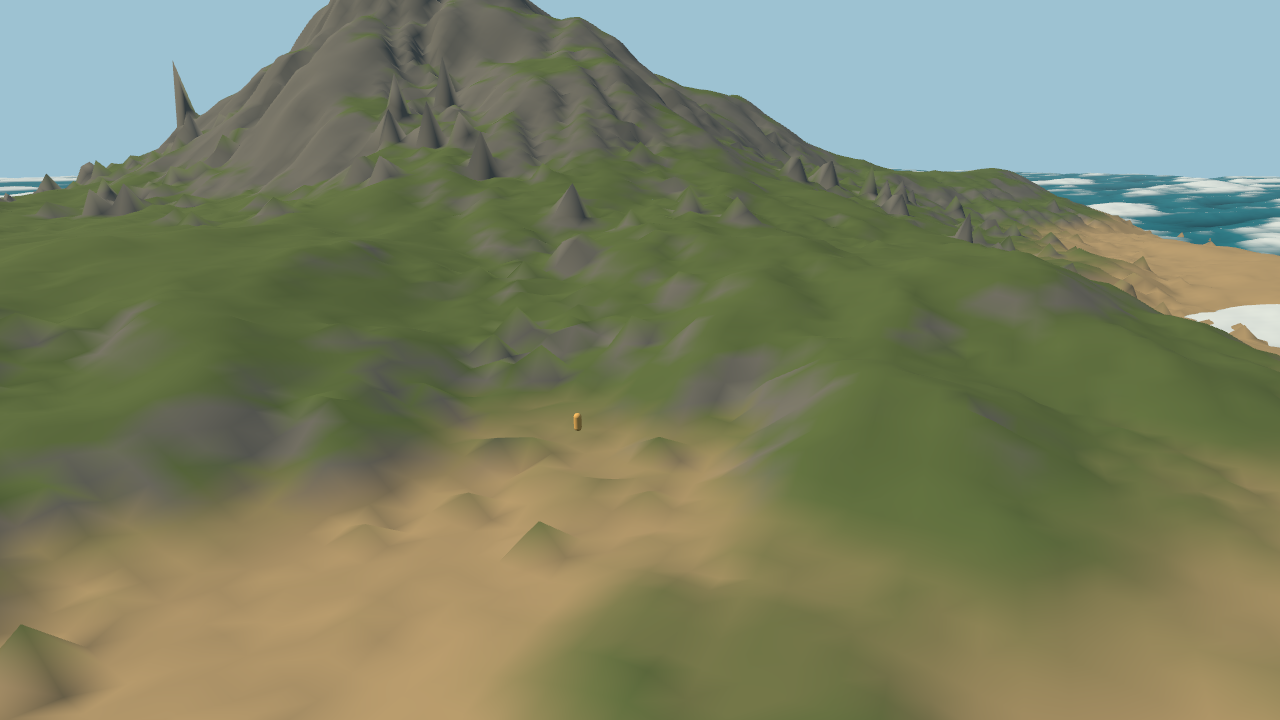
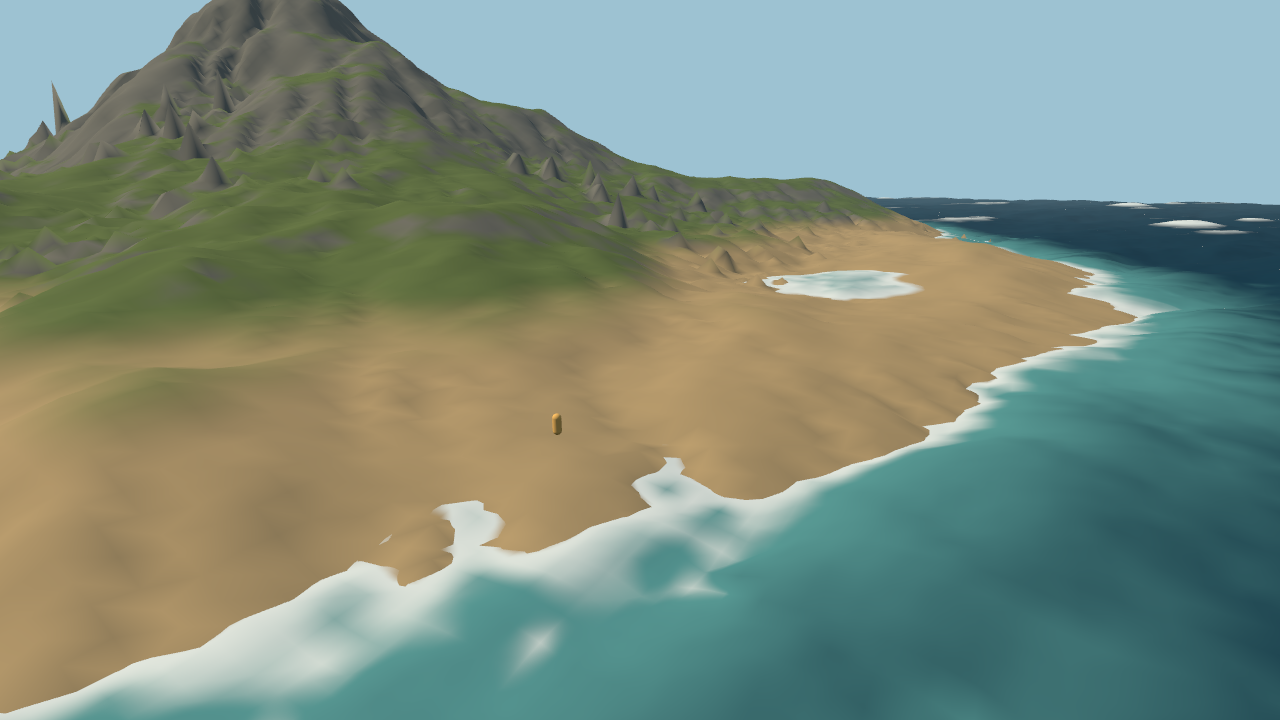
feat(terrain): qualify coastal waves and shoreline with PR screenshots

diff --git a/examples/strata-terrain-preview/src/render/ocean.ts b/examples/strata-terrain-preview/src/render/ocean.ts
@@ -13,7 +13,15 @@
 // A spectral ocean is cascaded wave spectra inverse-transformed on the GPU every frame, which is
 // what real water is, and a standard node material puts it back under the scene's own lights.
 import { type ISpectralOceanOptions, SpectralOcean } from "@threenative/core";
-import { Mesh, PlaneGeometry } from "three";
+import {
+  DataTexture,
+  DataUtils,
+  HalfFloatType,
+  LinearFilter,
+  Mesh,
+  PlaneGeometry,
+  RedFormat,
+} from "three";
 import {
   color,
   float,
@@ -21,12 +29,14 @@ import {
   positionLocal,
   positionWorld,
   smoothstep,
+  texture,
   transformNormalToView,
+  vec2,
   vec3,
 } from "three/tsl";
 import type { Node } from "three/webgpu";
 import { MeshStandardNodeMaterial } from "three/webgpu";
-import { palette } from "./palette.js";
+import type { IBakedWorld } from "./terrain.js";
 
 /**
  * The sea state. Every number is this game's.
@@ -119,7 +129,20 @@ function displacementAt(ocean: SpectralOcean, x: Node<"float">, z: Node<"float">
  * height query is copied from. If the two disagreed the ship would ride water nothing renders and
  * every assertion in this template would still be green.
  */
-export function createWaterMesh(ocean: SpectralOcean): Mesh {
+export function createWaterMesh(ocean: SpectralOcean, data: IBakedWorld): Mesh {
+  const level = data.waterLevel;
+  if (level === null || !Number.isFinite(level))
+    throw new Error("Coastal bake has no finite sea level");
+  const heightTexture = new DataTexture(
+    Uint16Array.from(data.heights, DataUtils.toHalfFloat),
+    data.resolution,
+    data.resolution,
+    RedFormat,
+    HalfFloatType,
+  );
+  heightTexture.minFilter = LinearFilter;
+  heightTexture.magFilter = LinearFilter;
+  heightTexture.needsUpdate = true;
   const geometry = new PlaneGeometry(
     SURFACE.size,
     SURFACE.size,
@@ -133,6 +156,8 @@ export function createWaterMesh(ocean: SpectralOcean): Mesh {
   // its specular response for free, and gets them consistent with the hull floating on it.
   const material = new MeshStandardNodeMaterial({
     metalness: 0.02,
+    transparent: true,
+    depthWrite: false,
     // Not glass. At 0.08 the key light landed as one blown white disc on the swell in front of the
     // camera; water this side of a dead calm scatters enough to spread that into a glitter path.
     roughness: 0.29,
@@ -161,17 +186,27 @@ export function createWaterMesh(ocean: SpectralOcean): Mesh {
     vec3(west.y.sub(east.y).div(twice), float(1), south.y.sub(north.y).div(twice)).normalize(),
   );
 
-  // Colour by height: deep in the troughs, lit water on the shoulders, foam on the crests. The
-  // band is narrower than the wave amplitude on purpose, so the tops read as foam-lit rather than
-  // as a gentle gradient.
-  const shade = smoothstep(float(-2.4), float(1.8), positionWorld.y);
-  const water = mix(color(palette.floor), color(palette.accent), shade);
-  const crest = smoothstep(float(1.6), float(3), positionWorld.y);
-  material.colorNode = mix(water, color(FOAM), crest);
-  // Foam is not a mirror. Roughening the crests is what stops them reading as chrome.
-  material.roughnessNode = mix(float(0.29), float(0.82), crest);
+  // Both coast masking and shallow foam use the same authored heightfield as the land.
+  // Half-float is sufficient for a metre-wide visual foam band and is filterable on WebGPU.
+  const shoreUV = vec2(
+    positionWorld.x.div(float(data.size)).add(0.5),
+    positionWorld.z.div(float(data.size)).add(0.5),
+  );
+  const landHeight = texture(heightTexture, shoreUV).r;
+  const depth = positionWorld.y.sub(landHeight);
+  const relativeHeight = positionWorld.y.sub(float(level));
+  const shallow = smoothstep(float(0.5), float(12), depth);
+  const water = mix(color(0x5ea7a9), color(0x153e54), shallow);
+  const crest = smoothstep(float(1.6), float(3), relativeHeight);
+  const shoreFoam = float(1).sub(smoothstep(float(0.3), float(2.4), depth));
+  const foam = crest.max(shoreFoam);
+  material.colorNode = mix(water, color(FOAM), foam);
+  material.opacityNode = smoothstep(float(-0.15), float(0.35), depth);
+  material.roughnessNode = mix(float(0.29), float(0.82), foam);
+  material.addEventListener("dispose", () => heightTexture.dispose());
 
   const mesh = new Mesh(geometry, material);
+  mesh.position.y = level;
   mesh.receiveShadow = true;
   mesh.frustumCulled = false;
   mesh.name = "sea-surface";

diff --git a/examples/strata-terrain-preview/src/game.ts b/examples/strata-terrain-preview/src/game.ts
@@ -34,6 +34,7 @@ const initialState = {
   waveSamples: 0,
   waveRange: 0,
   sampleSlopeRange: 0,
+  sunX: -180,
 };
 type TerrainState = typeof initialState;
 type TerrainCtx = ICtx<TerrainState, IPhysicsContext>;
@@ -43,6 +44,7 @@ function terrainScene(world: "forest" | "coastal"): new () => Scene<TerrainState
     static override readonly initialState = initialState;
     #player: CharacterBody3D | undefined;
     #elapsed = 0;
+    #sun: DirectionalLight | undefined;
     #ocean: ReturnType<typeof createOcean> | undefined;
 
     override enter(ctx: TerrainCtx): void {
@@ -75,13 +77,15 @@ function terrainScene(world: "forest" | "coastal"): new () => Scene<TerrainState
       const sun = new DirectionalLight(0xffeed0, 2.8);
       sun.position.set(-180, 240, 120);
       ctx.add(sun);
+      this.#sun = sun;
+      ctx.entities.add("sun", { object: sun, debug: () => ({ x: sun.position.x }) });
       ctx.add(new HemisphereLight(0xbcd4ed, 0x5e6548, 1.2));
 
       const actor = new Mesh(
         new CapsuleGeometry(0.35, 1.0, 6, 12),
         new MeshStandardMaterial({ color: 0xffc76d }),
       );
-      const start = world === "forest" ? [-190, 160] : [100, 110];
+      const start = world === "forest" ? [-190, 160] : [180, 100];
       actor.position.set(
         start[0] as number,
         field.heightAt(start[0] as number, start[1] as number) + 2,
@@ -150,8 +154,7 @@ function terrainScene(world: "forest" | "coastal"): new () => Scene<TerrainState
       const ocean = world === "coastal" ? ctx.add(createOcean()) : undefined;
       this.#ocean = ocean;
       if (ocean) {
-        const water = createWaterMesh(ocean);
-        water.position.y = 1.5;
+        const water = createWaterMesh(ocean, data);
         ctx.add(water);
         ctx.entities.add("sea", {
           object: ocean,
@@ -245,6 +248,7 @@ function terrainScene(world: "forest" | "coastal"): new () => Scene<TerrainState
         frames++;
         ctx.state.set({
           world,
+          sunX: sun.position.x,
           frames,
           travel,
           grounded: player.grounded,
@@ -257,8 +261,9 @@ function terrainScene(world: "forest" | "coastal"): new () => Scene<TerrainState
           sampleSlopeRange: waveSamples ? maxSlope - minSlope : 0,
         });
       });
+      const cameraOffset = world === "coastal" ? new Vector3(28, 18, 34) : new Vector3(28, 24, 42);
       ctx.beforeRender(() => {
-        ctx.camera.position.copy(actor.position).add(new Vector3(28, 24, 42));
+        ctx.camera.position.copy(actor.position).add(cameraOffset);
         ctx.camera.lookAt(actor.position.x, actor.position.y + 2, actor.position.z - 12);
       });
     }
@@ -266,6 +271,10 @@ function terrainScene(world: "forest" | "coastal"): new () => Scene<TerrainState
     override update(ctx: TerrainCtx, dt: number): void {
       this.#elapsed += dt;
       this.#ocean?.advance(this.#elapsed);
+      if (ctx.input.justPressed("light") && this.#sun) {
+        const sun = this.#sun;
+        sun.position.set(sun.position.x < 0 ? 180 : -180, 240, 120);
+      }
       const player = this.#player;
       if (!player) return;
       const move = ctx.input.vector("move");
@@ -290,6 +299,7 @@ const game = defineGame<TerrainState, IPhysicsContext>({
     },
     jump: { keys: ["Space"] },
     coast: { keys: ["KeyC"] },
+    light: { keys: ["KeyL"] },
   },
   plugins: [rapier({ deterministicRestart: true }), playtest()],
   render: { preferWebGPU: true },

diff --git a/examples/strata-terrain-preview/src/render/palette.js b/examples/strata-terrain-preview/src/render/palette.js
@@ -1,0 +1,11 @@
+// Explicit sRGB surface colours owned by this game, in Strata material-ID order.
+export const terrainPalette = [
+  [0.38, 0.46, 0.26],
+  [0.46, 0.36, 0.25],
+  [0.47, 0.47, 0.44],
+  [0.91, 0.94, 0.95],
+  [0.73, 0.63, 0.46],
+  [0.37, 0.32, 0.24],
+  [0.48, 0.44, 0.36],
+  [0.32, 0.4, 0.28],
+];

diff --git a/examples/strata-terrain-preview/src/render/terrain.ts b/examples/strata-terrain-preview/src/render/terrain.ts
@@ -6,6 +6,7 @@ export interface IBakedWorld {
   resolution: number;
   heights: number[];
   colors: number[];
+  waterLevel: number | null;
 }
 
 export function createTerrain(data: IBakedWorld): { field: Heightfield; mesh: Mesh } {

diff --git a/docs/PRDs/PRD-466-strata-terrain-threejs-integration.md b/docs/PRDs/PRD-466-strata-terrain-threejs-integration.md
@@ -4,7 +4,7 @@
 **Complexity:** 7 (HIGH); risk override: none
 **Owner:** ThreeNative maintainers
 **Depends on:** None
-**Progress:** 4/9 required boxes verified
+**Progress:** 5/9 required boxes verified
 **Required companion:** [PRD-467 — live terrain editor](PRD-467-strata-live-terrain-editor.md)
 **Required companion:** [PRD-468 — atmosphere, cameras, and asset imports](PRD-468-strata-world-controls-and-asset-imports.md)
 
@@ -469,7 +469,7 @@ the supplied HTML alone is not proof of a third-party code license.
 
 ### Phase 2: ThreeNative rendering and matching collision
 
-**Status:** PARTIAL
+**Status:** VERIFIED
 
 **Files:** `examples/strata-terrain-preview/package.json`, existing-template-derived
 build config, `src/game.ts`, `src/world/terrain.ts`, `src/render/terrain.ts`,
@@ -487,25 +487,21 @@ Adapt the existing sailing ocean source; use game-owned atmosphere/lighting and
 material source. Ocean compute advances every frame without reevaluating terrain.
 
 - [x] AC-3 [local, actor: implementing agent]: Browser WebGPU play exercises the generated hill/road with matching rendered and physical ground. proof: `pnpm --filter strata-terrain-preview test:terrain:web` — Evidence: PASS 2026-09-30 — existing runner with `--browser-recipe webgpu --headed`, NVIDIA/turing RTX 2080, 903 scenario ticks; the resource wait observes at least 50 m of walking (62.94 m in the isolated walk), grounded character, 371 coastal contact samples and maximum error 0.000043 m (isolated walk 609 samples, 0.000057 m). The 17×17 asymmetric fixture includes both cell interiors/diagonal sides and exact edge/corner probes, with measured bilinear-vs-triangle difference 1.5 m. No console, runtime or asset errors; inspected nonblank screenshots are attached on the PR. Walking probes compare identical oblique rays through the rendered and physical surfaces; this is not a claim that Rapier’s near-boundary vertical ray miss is fixed.
-- [x] AC-4 [local, actor: implementing agent]: The same baked terrain scenario runs in the Linux native desktop host. proof: `pnpm --filter strata-terrain-preview test:terrain:desktop` — Evidence: PASS 2026-09-30 — existing native bundler plus `--target desktop --executable ../../packages/runtime-native/build/tn-linux/mystral` and `run dist/strata-terrain-native.js`; 903 scenario ticks, observed 50 m travel wait, grounded character, 371 final ground samples and maximum mesh/physics error 0.000043 m. NVIDIA RTX 2080 host, inspected nonblank terrain/coastal captures, no runtime/console errors. Ocean compute/readback observes changing values after moving its clock update into Scene.update; this does not claim rendered-normal/coast qualification, FPS or mobile results.
-- [ ] AC-9 [local, actor: implementing agent]: The coastal ocean mesh visibly consumes the installed spectral simulation in the game scene. proof: AC-3 and AC-4 scenario runs — Evidence: pending; observe changing wave displacement and normals across recorded times, lit material response, and coast masking on browser and desktop, with no silent substitute or missing compute observations.
+- [x] AC-4 [local, actor: implementing agent]: The same baked terrain scenario runs in the Linux native desktop host. proof: `pnpm --filter strata-terrain-preview test:terrain:desktop` — Evidence: PASS 2026-09-30 — existing native bundler plus `--target desktop --executable ../../packages/runtime-native/build/tn-linux/mystral` and `run dist/strata-terrain-native.js`; 903 scenario ticks, observed 50 m travel wait, grounded character, 371 final ground samples and maximum mesh/physics error 0.000043 m. NVIDIA RTX 2080 host, inspected nonblank terrain/coastal captures, no runtime/console errors. A separate host run completes 300 render frames in 7,655 ms and captures nonblank terrain (226 presentations; not a steady-state FPS result). Ocean compute/readback and actual displaced/lit water captures pass; mobile results are not claimed.
+- [x] AC-9 [local, actor: implementing agent]: The coastal ocean mesh visibly consumes the installed spectral simulation in the game scene. proof: AC-3 and AC-4 scenario runs — Evidence: PASS 2026-10-01 — both target scripts pass the shared scenario and the installed PNG inspection check. Camera-matched early/later water captures change 71.2% of qualified water pixels; after moving the actual directional light, 54.2% change. Directly inspected browser/native captures show displaced wave shading, depth-colour transition and foam/masking from the baked coast. The lit standard node material consumes both spectral cascade buffers and central-difference normals. CPU sample slopes are reported separately as stale readback, not a numerical rendered-normal measurement. Both targets observe compute/readback activity; no runtime/asset errors. Final starter art/atmosphere quality remains AC-5.
 
-Phase 2 work in progress: the preview bakes seeded 512 m / 257-vertex forest
-and coastal worlds before startup and consumes only baked arrays in its game
-graph. The browser scenario now passes through the installed scene picker on
-NVIDIA/turing; headed capture is required because headless Chromium selected
-SwiftShader and lost its WebGPU instance. A data-URL favicon avoids the unrelated
-browser request error. Browser and desktop artifacts have separate directories.
-Desktop bundling and the shared native scenario pass after moving ocean.advance
-from the render callback into Scene.update, before fixed compute dispatch. The
-first native failure was a game clock-wiring error: deterministic ticks do not
-run beforeRender. The corrected scenario observes 361 spectral compute steps,
-360 readback samples, wave-height range 0.02448 m and CPU sample-slope range
-0.01180, with no runtime errors. Two recorded ocean times allow asynchronous
-readback between tick batches. CPU sample slope variation remains a stale
-readback proxy, not rendered-normal qualification. Coast masking/foam and visible
-normal/sun-response comparisons remain pending; AC-9 stays open.
-
+Phase 2 verified: the preview bakes seeded 512 m / 257-vertex forest and
+coastal worlds before startup and consumes only baked arrays in its game graph.
+Headed browser capture names NVIDIA/turing; headless Chromium selected SwiftShader
+and lost its WebGPU instance. Browser/native artifacts have separate directories.
+The first native ocean failure was game clock wiring: deterministic ticks do not
+run beforeRender. Ocean.advance now runs in Scene.update before compute dispatch.
+The scenario observes 361 spectral steps and 360 samples. Two recorded ocean times
+and an actual sunlight change qualify visible displaced/normal-lit water on both
+targets; the game-owned shader samples canonical baked heights for depth colour,
+shore foam and opacity. CPU slope variation remains a stale readback proxy.
+The separate native host run renders 300 frames and captures the terrain; its
+226 presentations and wall time are not a steady-state frame-rate claim.
 
 Raw Rapier reproduces a vertical-ray miss at z=159.99998474121094 near a
 heightfield grid boundary. Walking probes compare identical oblique rays in mesh
@@ -568,8 +564,8 @@ coefficient; those integration fixes pass 15 targeted tests and retain compatibi
 The PR branch subsequently received develop commit `7d8367a58`; the terrain
 consumer suite (7 tests), package integration suites (15 tests), strict publint
 and capability regeneration pass again on the preserved merged baseline. Full
-repository checks will be refreshed with the next behavior phase. No Strata
-browser, desktop, editor, starter-art or full-world export result is claimed yet.
+repository checks will be refreshed with the next behavior phase. The subsequently rerun browser/native scenarios verify rendering/contact and
+coastal wave/lighting behavior. Editor, starter-art and full-world export remain open.
 
 
 Commands naming the new package, example, tests, and `test:terrain:*` /
@@ -609,3 +605,13 @@ size limit. Full refresh on the integrated develop baseline passes 520 unit file
 tests (3 files / 12 existing skips), plus workspace builds and package checks.
 The subsequent game clock wiring is covered by the rerun example typecheck and
 shared runtime scenario; no new full-suite verdict is claimed for that edit.
+
+Phase 2 visual refresh (2026-10-01): both target scripts include the runnable
+`verify-ocean.mjs` check, reusing the native conformance PNG inspector. Browser
+and native shoreline/wave/sun captures are inspected and attached to PR #381.
+The shoreline refresh passes root typecheck, lint, budgets and doc links; six
+documentation suites pass 180 tests. Root `pnpm test` completes workspace/package
+checks and 6,475 unit tests, with one source-hygiene failure because a removed
+tracked palette file had not yet been staged. Staging that deletion fixes the
+index-based scan; its one test then passes. This reports the actual full-command
+failure and targeted repair, not a cached or invented full-command success.

diff --git a/examples/strata-terrain-preview/AGENTS.md b/examples/strata-terrain-preview/AGENTS.md
@@ -7,7 +7,7 @@ Read `/AGENTS.md` first. This example consumes build-baked arrays, not runtime r
 - Game appearance lives in `src/render/`; the ocean uses installed `SpectralOcean`.
 - Use one `Heightfield` buffer for geometry and existing heightfield collision; do not resample.
 - Ground contacts use actual mesh and physics queries. Bilinear heights are not triangle contacts.
-- WASD/arrows move, Space jumps, C switches forest/coast. The player owns its camera.
+- WASD/arrows move, Space jumps, C switches forest/coast, L changes sunlight. The player owns its camera.
 - Starter art, editor controls and portable world export are subsequent PRD phases.
 
 Run `pnpm --filter strata-terrain-preview test:terrain:web` and

diff --git a/examples/strata-terrain-preview/CLAUDE.md b/examples/strata-terrain-preview/CLAUDE.md
@@ -9,7 +9,7 @@ Read `/AGENTS.md` first. This example consumes build-baked arrays, not runtime r
 - Game appearance lives in `src/render/`; the ocean uses installed `SpectralOcean`.
 - Use one `Heightfield` buffer for geometry and existing heightfield collision; do not resample.
 - Ground contacts use actual mesh and physics queries. Bilinear heights are not triangle contacts.
-- WASD/arrows move, Space jumps, C switches forest/coast. The player owns its camera.
+- WASD/arrows move, Space jumps, C switches forest/coast, L changes sunlight. The player owns its camera.
 - Starter art, editor controls and portable world export are subsequent PRD phases.
 
 Run `pnpm --filter strata-terrain-preview test:terrain:web` and
